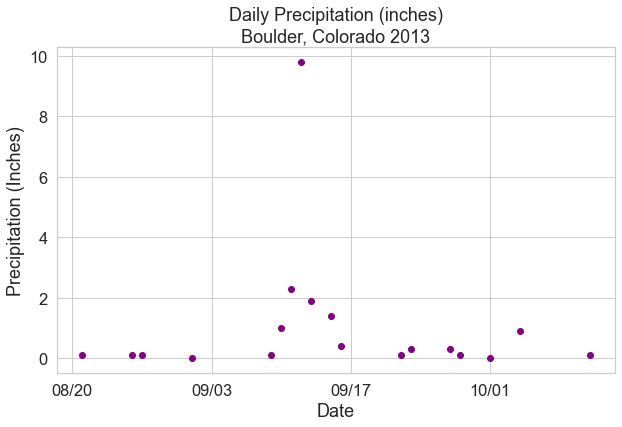
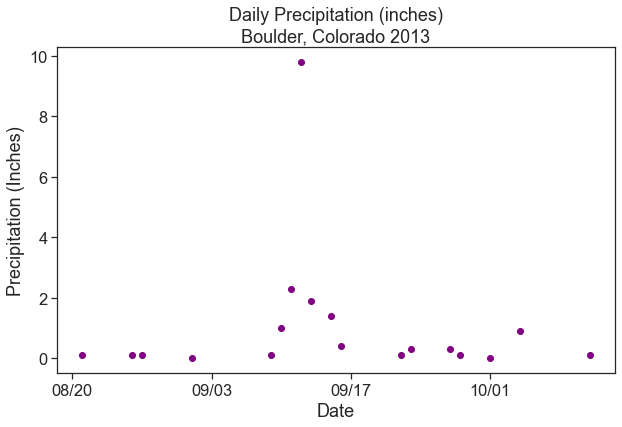
changed file to update with student changes (#654)

diff --git a/_posts/courses/plot-data-in-python-textbook/01-plot-with-matplotlib/intro-to-plotting-matplotlib/2019-09-11-plot-with-matplotlib-03-plot-time-series-data.md b/_posts/courses/plot-data-in-python-textbook/01-plot-with-matplotlib/intro-to-plotting-matplotlib/2019-09-11-plot-with-matplotlib-03-plot-time-series-data.md
@@ -4,7 +4,7 @@ title: "Customize Matplotlibe Dates Ticks on the x-axis in Python"
 excerpt: 'When you plot time series data in matplotlib, you often want to customize the date format that is presented on the plot. Learn how to customize the date format in a Python matplotlib plot.'
 authors: ['Chris Holdgraf', 'Leah Wasser', 'Martha Morrissey']
 dateCreated: 2019-09-11
-modified: 2020-09-02
+modified: 2020-09-30
 category: [courses]
 class-lesson: ['intro-to-plotting-matplotlib']
 course: 'scientists-guide-to-plotting-data-in-python-textbook'
@@ -55,7 +55,8 @@ os.chdir(os.path.join(et.io.HOME, 'earth-analytics', 'data'))
 
 # Prettier plotting with seaborn
 sns.set(font_scale=1.5)
-sns.set_style("whitegrid")
+# Ticks instead of whitegrid in order to demonstrate changes to plot ticks better
+sns.set_style("ticks")
 ```
 
 {:.output}
@@ -283,7 +284,7 @@ ax.xaxis.set_major_formatter(date_form)
 
 
 
-### X-Lable Ticks and Dates
+### X-Label Ticks and Dates
 
 Time specific ticks can be added along the x-axis. For example, large ticks can indicate each new week day and small ticks can indicate each day. 
 
